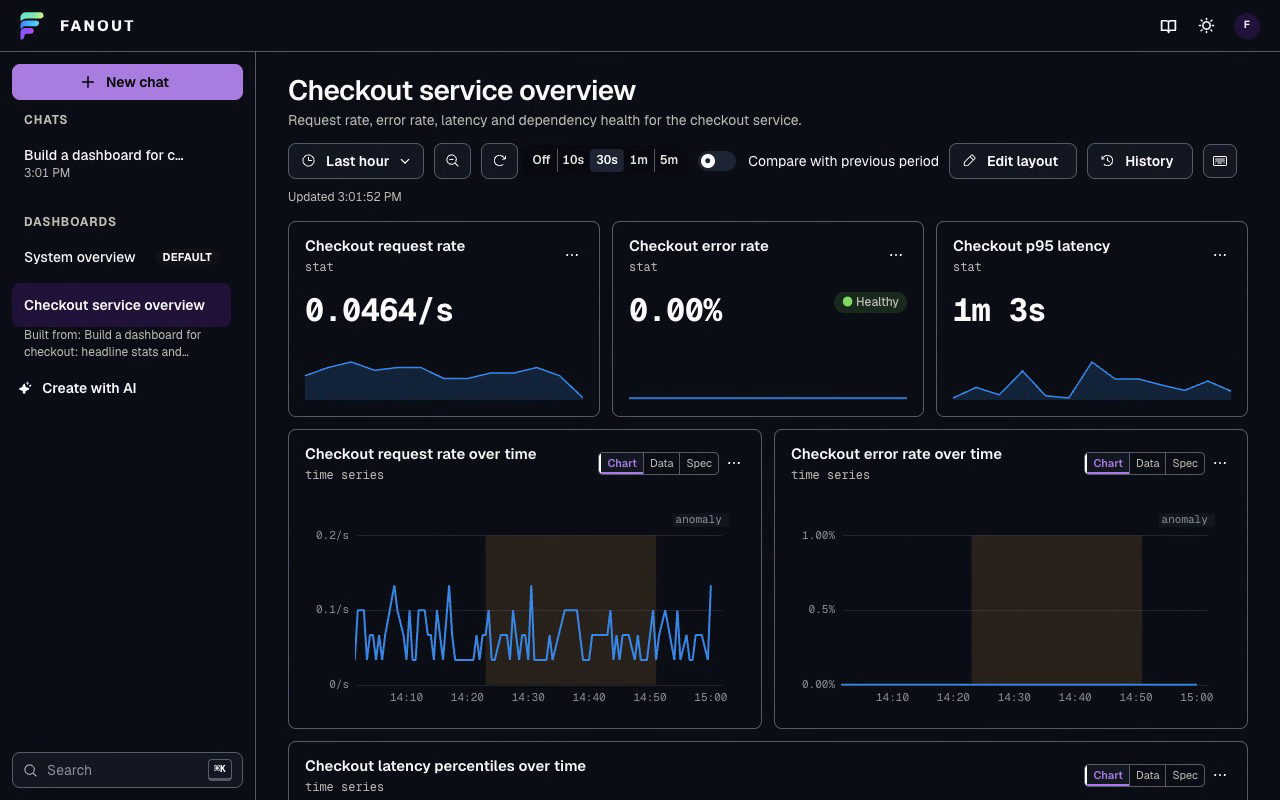
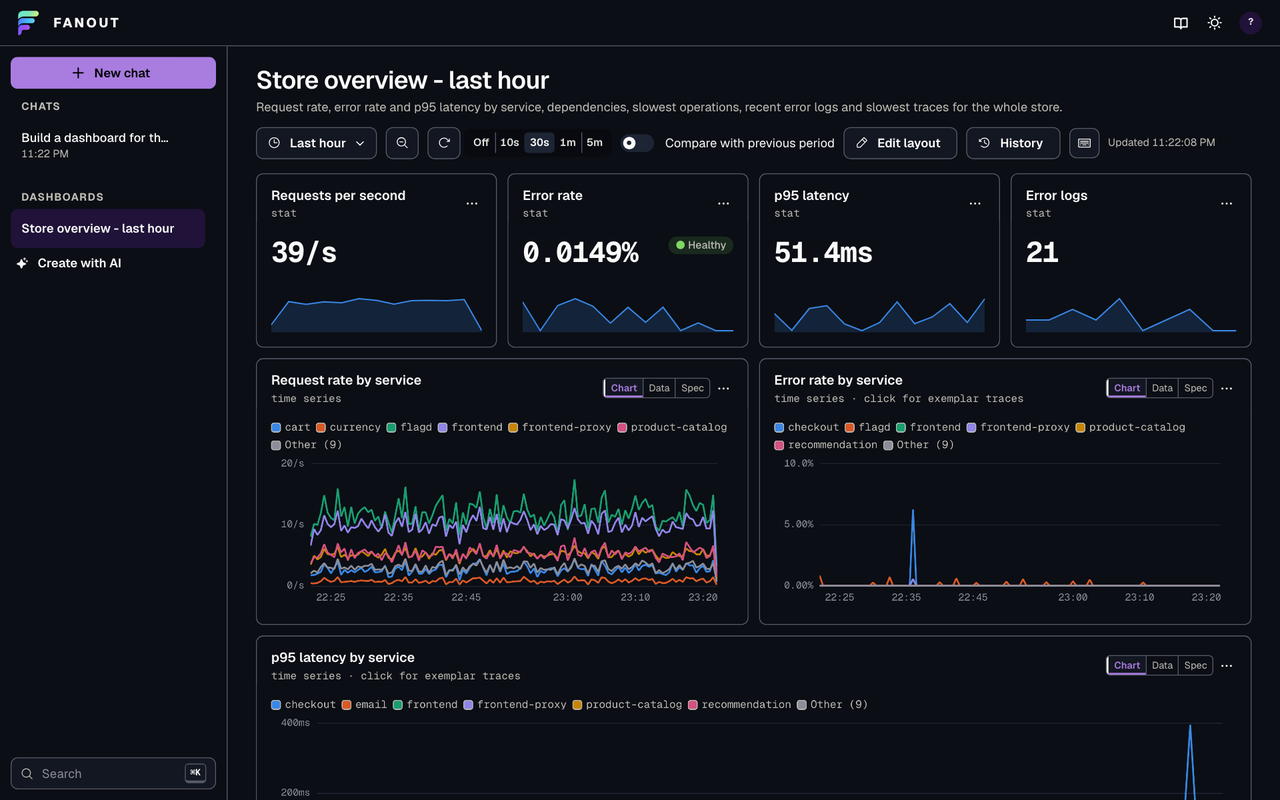
chore(site): use rendered product clips on the homepage (#394)
* chore(site): add the Fanout logo lockup

The flowing-F mark beside a lowercase Figtree 700 wordmark, with the
letters outlined as paths and a transparent background. Served at
/logo.svg for directories that require a named logo.

* chore(site): use rendered product clips on the homepage

The dashboard and chat slots now show clips rendered from Fanout's own
interface components at 1920 x 1200, with OpenTelemetry Demo data from the
project's test lab. The dashboard clip builds a store overview from one
request and tours its eleven panels; the chat clip answers which service is
slowest. The caption says "Fanout interface · OpenTelemetry Demo data"
instead of "Recorded", and the sped-up label is gone.

Posters and the README image come from the same renders. The README image
links to fanout.run.

* chore(site): publish the rendered homepage clips

The manifest points the dashboard and chat slots at the new MP4 and WebM
files under assets.fanout.run/videos/.

diff --git a/site/scripts/landing-recordings.md b/site/scripts/landing-recordings.md
@@ -3,7 +3,7 @@
 Record the chat and dashboard slots from an OpenTelemetry Demo instance with
 chat enabled.
 
-Expected assets (all at 1280 × 800):
+Expected assets (16:10; posters at 1280 × 800, videos at 1280 × 800 or larger):
 
 - `site/src/assets/landing/chat-{light,dark}.{webm,mp4,png}`
 - `site/src/assets/landing/dashboard-{light,dark}.{webm,mp4,png}`
@@ -17,8 +17,8 @@ folder per file type.
 Each slot stays poster-only until both themes have both video formats in
 `site/src/data/landing-media.json`. An absent manifest also shows posters. The
 component follows the site theme, pauses off screen and in hidden tabs, and
-shows only the poster when reduced motion is enabled. Its `spedUp` prop marks
-recordings with shortened waits in the caption.
+shows only the poster when reduced motion is enabled. The caption names the
+interface and data source; keep it accurate for how each clip was produced.
 
 Set `FANOUT_LANDING_RECORDINGS=1`, `FANOUT_LANDING_BASE_URL` to the existing
 instance URL, and `FANOUT_LANDING_SESSION_COOKIE` to a `name=value` session cookie

diff --git a/README.md b/README.md
@@ -7,10 +7,12 @@ Fanout's built-in agent or connect your own over MCP.
 [![License: Apache 2.0](https://img.shields.io/badge/License-Apache_2.0-blue.svg)](LICENSE)
 [![Go Reference](https://pkg.go.dev/badge/github.com/labstack/fanout.svg)](https://pkg.go.dev/github.com/labstack/fanout)
 
+<a href="https://fanout.run">
 <picture>
   <source media="(prefers-color-scheme: dark)" srcset="site/src/assets/landing/overview-dark.png">
-  <img src="site/src/assets/landing/overview-light.png" alt="Fanout System overview dashboard showing request rates, errors, latency, and service charts.">
+  <img src="site/src/assets/landing/overview-light.png" alt="A Fanout dashboard the built-in agent built from one request: store request rate, error rate, p95 latency and error logs, with request and error rates by service.">
 </picture>
+</a>
 
 Fanout keeps OpenTelemetry traces, logs, and metrics in one binary and one data directory, with no
 external storage services to operate. Fanout is pre-release and changes without migration paths; the browser
